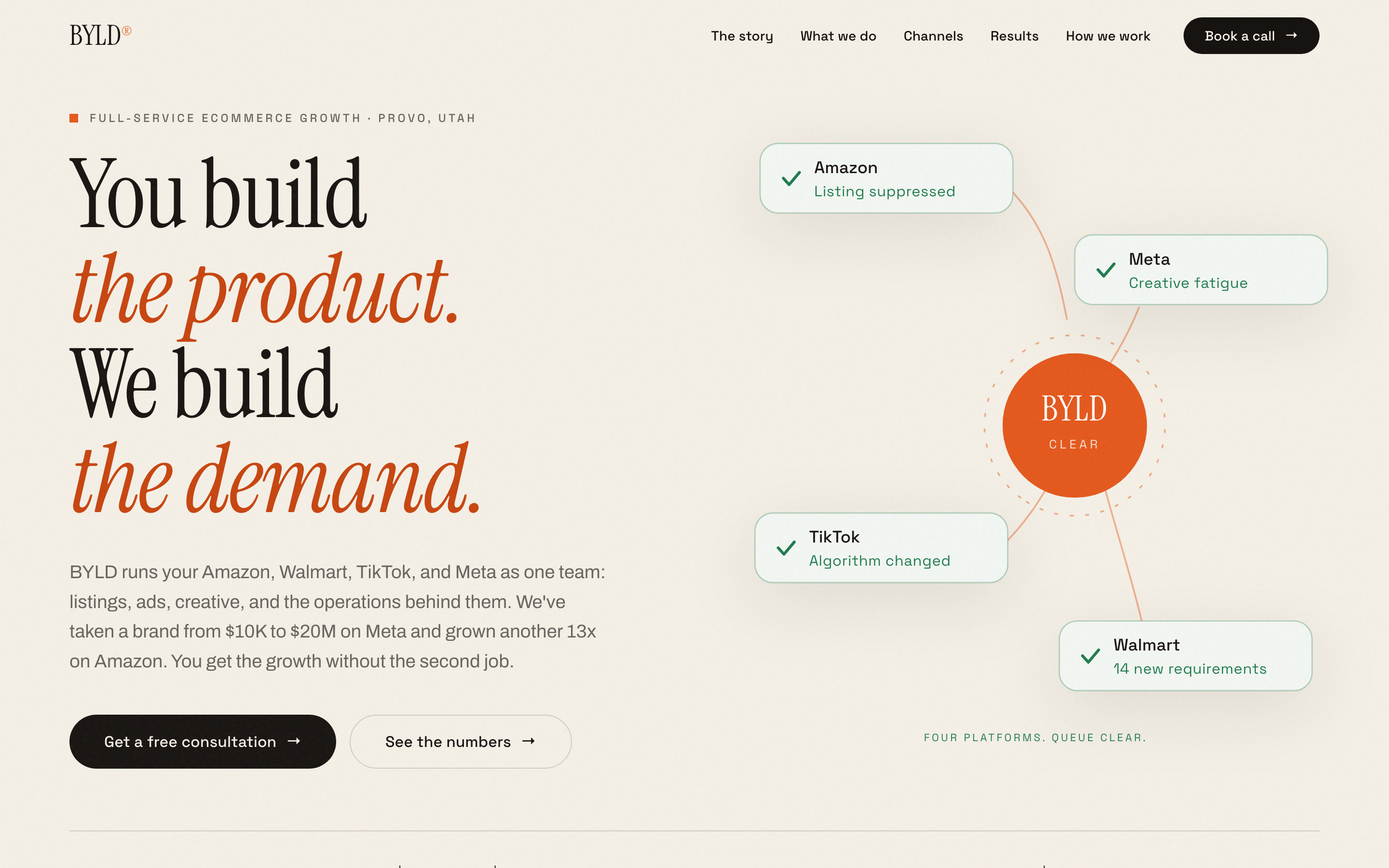
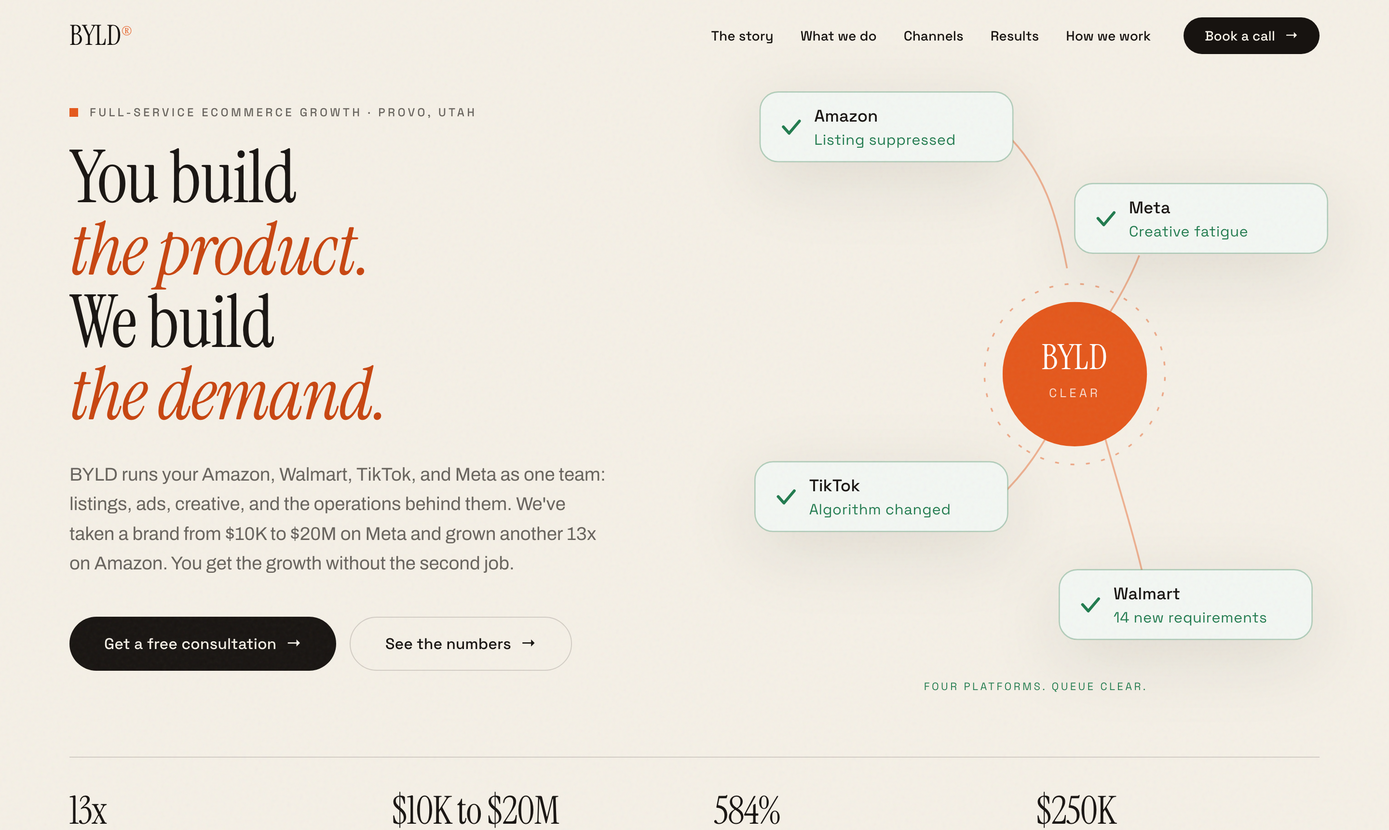
Fit hero and results down to a 660px viewport, trim README to two shots
Chrome with a bookmarks bar leaves noticeably less height than Safari,
which is why one fitted and the other cut off. The height-aware scale now
holds down to a 660px viewport: hero buttons and the results strip plus its
hint stay above the fold at 660, 700 and 790.

Screenshot capture now waits on document.fonts.ready before measuring the
offset. Measuring first meant the webfonts landed afterwards and shifted
the layout, which is why the README crops were drifting off their sections.

README keeps only the two shots that read cleanly as stills, hero and
results, and points at the live site for the animated pieces.

diff --git a/css/style.css b/css/style.css
@@ -32,8 +32,8 @@
     --section: clamp(64px, 9vw, 104px);
     /* never below the 74px fixed header, or a section's eyebrow lands
        behind it when you jump straight to that section */
-    --section-top: 88px;
-    --rcard-stat: clamp(2.9rem, 4vw, 3.6rem);
+    --section-top: 82px;
+    --rcard-stat: clamp(2.5rem, min(4vw, 6.4vh), 3.6rem);
   }
 }
 
@@ -168,13 +168,16 @@ button { font: inherit; color: inherit; background: none; border: 0; cursor: poi
 
 .eyebrow--light { color: var(--cream-soft); }
 
+/* the vh term matters on laptops: Chrome with a bookmarks bar leaves far
+   less height than the screen size suggests, and two lines of display
+   serif at full size push a section past the fold */
 .h2 {
   font-family: var(--serif);
   font-weight: 400;
-  font-size: clamp(2.6rem, 5.6vw, 4.8rem);
+  font-size: clamp(2.1rem, min(5.6vw, 8vh), 4.8rem);
   line-height: 1.02;
   letter-spacing: -0.01em;
-  margin-top: 22px;
+  margin-top: clamp(12px, 2.2vh, 22px);
 }
 
 .h2 em, .turn__title em, .contact__title em, .footer__tagline em {
@@ -367,7 +370,7 @@ button { font: inherit; color: inherit; background: none; border: 0; cursor: poi
   min-height: 100svh;
   display: flex;
   align-items: center;
-  padding: clamp(84px, 12vh, 110px) var(--gutter) clamp(44px, 7vh, 70px);
+  padding: clamp(60px, 9vh, 110px) var(--gutter) clamp(36px, 6vh, 70px);
   overflow: hidden;
 }
 
@@ -392,7 +395,7 @@ button { font: inherit; color: inherit; background: none; border: 0; cursor: poi
   margin-top: clamp(14px, 2vh, 24px);
   font-family: var(--serif);
   font-weight: 400;
-  font-size: clamp(2.4rem, min(6.9vw, 11.2vh), 6.4rem);
+  font-size: clamp(2.4rem, min(6.9vw, 8.8vh), 6.4rem);
   line-height: 0.99;
   letter-spacing: -0.015em;
 }
@@ -1070,7 +1073,7 @@ button { font: inherit; color: inherit; background: none; border: 0; cursor: poi
   justify-content: space-between;
   gap: 40px;
   padding: 0 var(--gutter);
-  margin-bottom: clamp(22px, 3vh, 44px);
+  margin-bottom: clamp(14px, 3vh, 44px);
   flex-wrap: wrap;
 }
 
@@ -1084,7 +1087,7 @@ button { font: inherit; color: inherit; background: none; border: 0; cursor: poi
   display: flex;
   gap: 18px;
   overflow-x: auto;
-  padding: 6px var(--gutter) 22px;
+  padding: 6px var(--gutter) clamp(12px, 2.2vh, 22px);
   scroll-snap-type: x proximity;
   scrollbar-width: none;
   cursor: grab;
@@ -1173,7 +1176,7 @@ button { font: inherit; color: inherit; background: none; border: 0; cursor: poi
   display: flex;
   flex-wrap: wrap;
   gap: 10px;
-  margin-bottom: 30px;
+  margin-bottom: clamp(16px, 2.5vh, 30px);
 }
 
 .rfilter {
@@ -1240,7 +1243,7 @@ button { font: inherit; color: inherit; background: none; border: 0; cursor: poi
 .rcard__who {
   display: block;
   margin-top: auto;
-  padding-top: 30px;
+  padding-top: clamp(14px, 3vh, 30px);
   font-family: var(--label);
   font-size: 12.5px;
   letter-spacing: 0.06em;

diff --git a/squarespace/code-injection-header.html b/squarespace/code-injection-header.html
@@ -39,8 +39,8 @@
     --section: clamp(64px, 9vw, 104px);
     /* never below the 74px fixed header, or a section's eyebrow lands
        behind it when you jump straight to that section */
-    --section-top: 88px;
-    --rcard-stat: clamp(2.9rem, 4vw, 3.6rem);
+    --section-top: 82px;
+    --rcard-stat: clamp(2.5rem, min(4vw, 6.4vh), 3.6rem);
   }
 }
 
@@ -175,13 +175,16 @@ button { font: inherit; color: inherit; background: none; border: 0; cursor: poi
 
 .eyebrow--light { color: var(--cream-soft); }
 
+/* the vh term matters on laptops: Chrome with a bookmarks bar leaves far
+   less height than the screen size suggests, and two lines of display
+   serif at full size push a section past the fold */
 .h2 {
   font-family: var(--serif);
   font-weight: 400;
-  font-size: clamp(2.6rem, 5.6vw, 4.8rem);
+  font-size: clamp(2.1rem, min(5.6vw, 8vh), 4.8rem);
   line-height: 1.02;
   letter-spacing: -0.01em;
-  margin-top: 22px;
+  margin-top: clamp(12px, 2.2vh, 22px);
 }
 
 .h2 em, .turn__title em, .contact__title em, .footer__tagline em {
@@ -374,7 +377,7 @@ button { font: inherit; color: inherit; background: none; border: 0; cursor: poi
   min-height: 100svh;
   display: flex;
   align-items: center;
-  padding: clamp(84px, 12vh, 110px) var(--gutter) clamp(44px, 7vh, 70px);
+  padding: clamp(60px, 9vh, 110px) var(--gutter) clamp(36px, 6vh, 70px);
   overflow: hidden;
 }
 
@@ -399,7 +402,7 @@ button { font: inherit; color: inherit; background: none; border: 0; cursor: poi
   margin-top: clamp(14px, 2vh, 24px);
   font-family: var(--serif);
   font-weight: 400;
-  font-size: clamp(2.4rem, min(6.9vw, 11.2vh), 6.4rem);
+  font-size: clamp(2.4rem, min(6.9vw, 8.8vh), 6.4rem);
   line-height: 0.99;
   letter-spacing: -0.015em;
 }
@@ -1077,7 +1080,7 @@ button { font: inherit; color: inherit; background: none; border: 0; cursor: poi
   justify-content: space-between;
   gap: 40px;
   padding: 0 var(--gutter);
-  margin-bottom: clamp(22px, 3vh, 44px);
+  margin-bottom: clamp(14px, 3vh, 44px);
   flex-wrap: wrap;
 }
 
@@ -1091,7 +1094,7 @@ button { font: inherit; color: inherit; background: none; border: 0; cursor: poi
   display: flex;
   gap: 18px;
   overflow-x: auto;
-  padding: 6px var(--gutter) 22px;
+  padding: 6px var(--gutter) clamp(12px, 2.2vh, 22px);
   scroll-snap-type: x proximity;
   scrollbar-width: none;
   cursor: grab;
@@ -1180,7 +1183,7 @@ button { font: inherit; color: inherit; background: none; border: 0; cursor: poi
   display: flex;
   flex-wrap: wrap;
   gap: 10px;
-  margin-bottom: 30px;
+  margin-bottom: clamp(16px, 2.5vh, 30px);
 }
 
 .rfilter {
@@ -1247,7 +1250,7 @@ button { font: inherit; color: inherit; background: none; border: 0; cursor: poi
 .rcard__who {
   display: block;
   margin-top: auto;
-  padding-top: 30px;
+  padding-top: clamp(14px, 3vh, 30px);
   font-family: var(--label);
   font-size: 12.5px;
   letter-spacing: 0.06em;

diff --git a/squarespace/code-injection-footer.html b/squarespace/code-injection-footer.html
@@ -13,7 +13,9 @@
   const captureId = captureParams.get('capture');
   if (captureId !== null) {
     document.documentElement.classList.add('is-capture');
-    requestAnimationFrame(() => {
+    /* wait for the webfonts: measuring offsets before they land shifts the
+       layout afterwards and the crop drifts off the section */
+    const place = () => {
       const px = captureId.startsWith('px:')
         ? parseInt(captureId.slice(3), 10)
         : (document.getElementById(captureId) || {}).offsetTop;
@@ -22,7 +24,9 @@
       const stageState = captureParams.get('state');
       const visual = document.querySelector('.story__visual');
       if (stageState && visual) visual.dataset.state = stageState;
-    });
+    };
+    const fonts = document.fonts ? document.fonts.ready : Promise.resolve();
+    fonts.then(() => requestAnimationFrame(place));
   }
 
   /* Hosts like Squarespace wrap code blocks in positioned containers that

diff --git a/js/main.js b/js/main.js
@@ -8,7 +8,9 @@
   const captureId = captureParams.get('capture');
   if (captureId !== null) {
     document.documentElement.classList.add('is-capture');
-    requestAnimationFrame(() => {
+    /* wait for the webfonts: measuring offsets before they land shifts the
+       layout afterwards and the crop drifts off the section */
+    const place = () => {
       const px = captureId.startsWith('px:')
         ? parseInt(captureId.slice(3), 10)
         : (document.getElementById(captureId) || {}).offsetTop;
@@ -17,7 +19,9 @@
       const stageState = captureParams.get('state');
       const visual = document.querySelector('.story__visual');
       if (stageState && visual) visual.dataset.state = stageState;
-    });
+    };
+    const fonts = document.fonts ? document.fonts.ready : Promise.resolve();
+    fonts.then(() => requestAnimationFrame(place));
   }
 
   /* Hosts like Squarespace wrap code blocks in positioned containers that

diff --git a/README.md b/README.md
@@ -43,15 +43,9 @@ Two decisions drive everything else.
 | FAQ | Six questions in that same voice, including who BYLD is not a fit for |
 | Contact | Qualifying revenue dropdown, mirroring the hero's language |
 
-![The four-chapter scroll story](docs/screenshots/story.png)
+![Results - filterable cards, every one linking to the case study behind it](docs/screenshots/results.png)
 
-![The bento capability wall built around the flywheel](docs/screenshots/bento.png)
-
-![Filterable results cards, each linking to a case study](docs/screenshots/results.png)
-
-![The FAQ in the agency's direct voice](docs/screenshots/faq.png)
-
-![The closing contact section](docs/screenshots/contact.png)
+The scroll story, the flywheel and the hero's alert system only read properly in motion, so they are best seen on the [live site](https://akallam04.github.io/byld-commerce-website/) rather than in a still.
 
 ## Built in two passes
 
